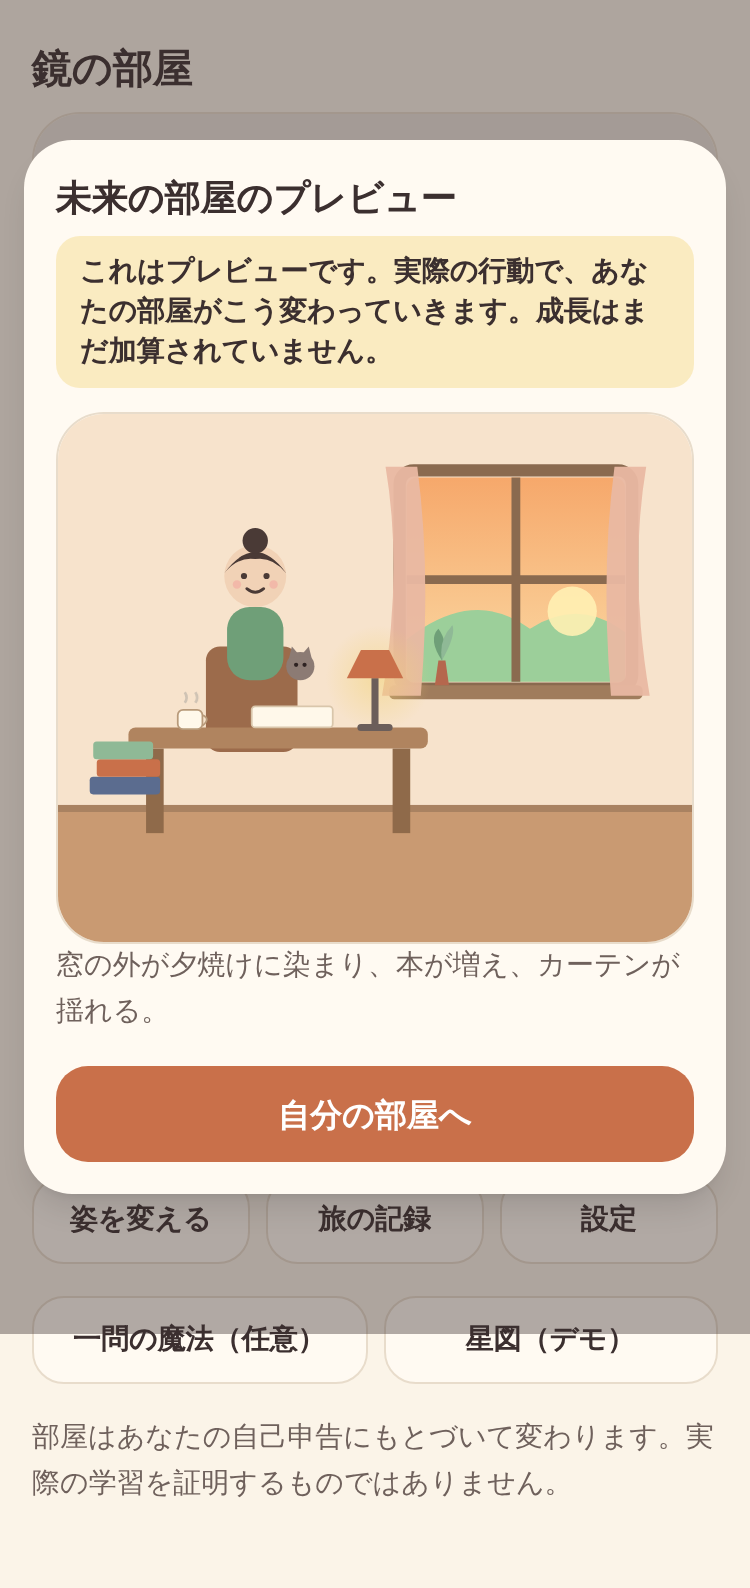
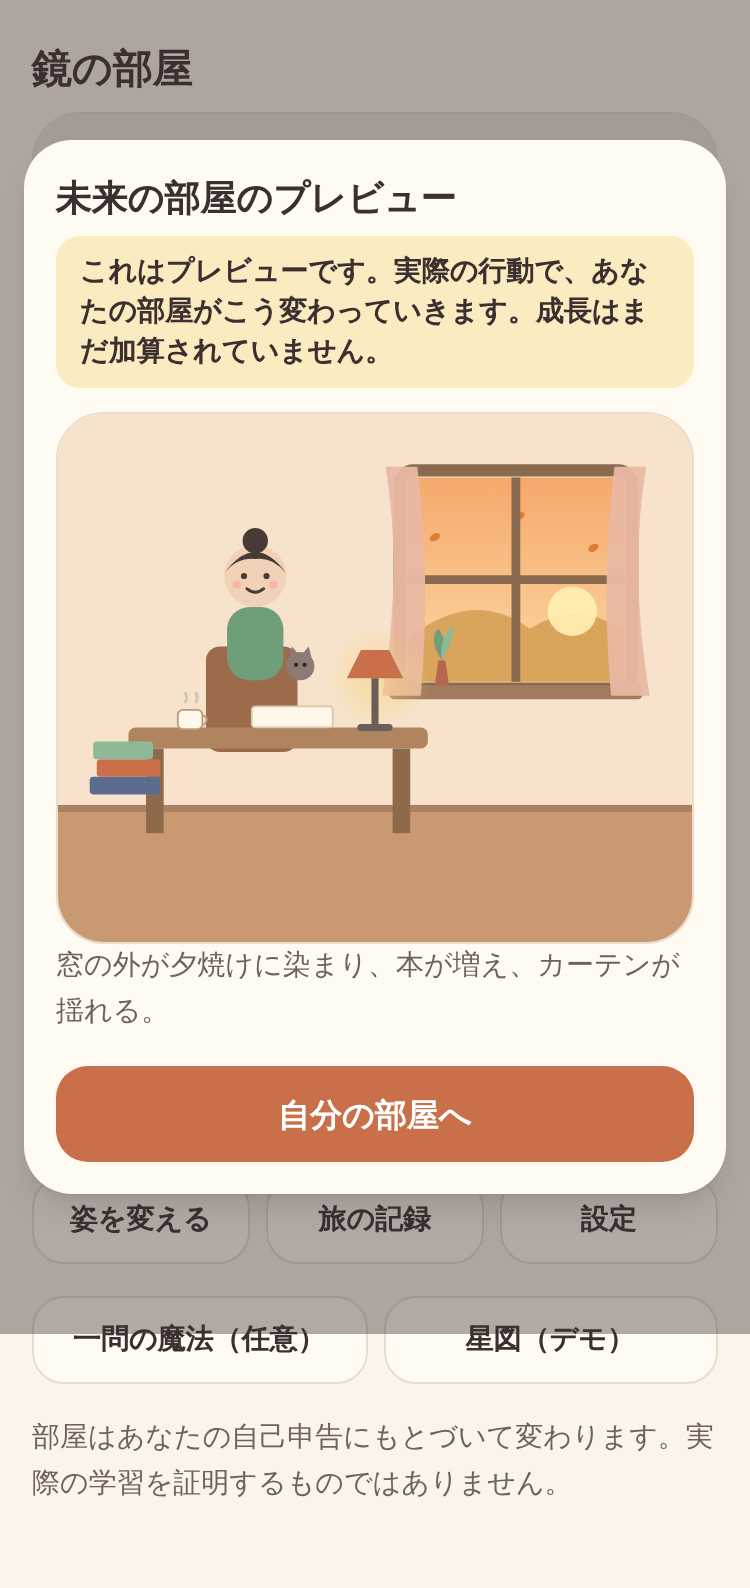
窓の外の四季、公開準備メモ（承認待ち）を追加
- 鏡の部屋: 端末の月で春夏秋冬の丘の色と小さな装飾（花びら・落ち葉・雪）を描き分け
- docs/06-release-prep.md: 静的配信の条件、公開前チェックリスト、判断が必要な点
- docs/01, 05, README を更新。テスト: Vitest 38 件 / E2E 12 件すべて成功

Claude-Session: https://claude.ai/code/session_01TEHZJDHAs9678v4oDnJQFv

Changed region(s): [[0.552, 0.3703, 0.828, 0.432]]

diff --git a/src/components/MirrorRoom.tsx b/src/components/MirrorRoom.tsx
@@ -2,6 +2,15 @@ import type { Ref } from "react";
 import type { AvatarConfig } from "@/game/types";
 import { AvatarFigure } from "@/components/Avatar";
 import { ROOM_STAGES } from "@/game/content/roomStages";
+import type { Season } from "@/game/logic/season";
+
+// 窓の外の丘の色（季節 × 昼夜）。段階 2 以上で見える。
+const HILL: Record<Season, [string, string]> = {
+  spring: ["#9ccf9a", "#2f4a3c"],
+  summer: ["#6fb57a", "#27402f"],
+  autumn: ["#d9a45b", "#4a3a2a"],
+  winter: ["#e9eef2", "#5a6470"],
+};
 
 // 鏡の部屋。段階（stage）と部屋に現れた物（objects）で描き分ける。時間では変わらない。
 const WALL = ["#e9e3da", "#f4e8d6", "#f6ead7", "#f7e3cc", "#e2d6c8", "#ddd0c4"];
@@ -33,9 +42,10 @@ export interface MirrorRoomProps {
   className?: string;
   svgRef?: Ref<SVGSVGElement>;
   idPrefix?: string;
+  season?: Season;
 }
 
-export function MirrorRoom({ stage, objects, avatar, label, className = "", svgRef, idPrefix = "room" }: MirrorRoomProps) {
+export function MirrorRoom({ stage, objects, avatar, label, className = "", svgRef, idPrefix = "room", season = "spring" }: MirrorRoomProps) {
   const s = Math.max(0, Math.min(WALL.length - 1, stage));
   const has = (id: string) => objects.includes(id);
   const night = s >= 4;
@@ -82,7 +92,28 @@ export function MirrorRoom({ stage, objects, avatar, label, className = "", svgR
 
       {/* 窓 */}
       <rect x="198" y="36" width="124" height="116" rx="6" fill={`url(#${skyId})`} />
-      {s >= 2 ? <path d="M198 128 Q236 98 268 122 Q296 104 322 124 L322 152 L198 152 Z" fill={night ? "#2f4a3c" : "#9ccf9a"} /> : null}
+      {s >= 2 ? <path d="M198 128 Q236 98 268 122 Q296 104 322 124 L322 152 L198 152 Z" fill={HILL[season][night ? 1 : 0]} /> : null}
+      {s >= 2 && season === "spring" ? (
+        <g>
+          {[[210, 60], [250, 52], [300, 66], [236, 84]].map(([x, y]) => (
+            <circle key={`p${x}`} cx={x} cy={y} r="2.5" fill="#f7c5d0" opacity="0.9" />
+          ))}
+        </g>
+      ) : null}
+      {s >= 2 && season === "autumn" ? (
+        <g>
+          {[[214, 70], [262, 58], [304, 76]].map(([x, y]) => (
+            <ellipse key={`l${x}`} cx={x} cy={y} rx="3.2" ry="2" fill="#d9772f" opacity="0.9" transform={`rotate(-30 ${x} ${y})`} />
+          ))}
+        </g>
+      ) : null}
+      {s >= 2 && season === "winter" ? (
+        <g>
+          {[[208, 50], [230, 72], [256, 46], [282, 66], [306, 50], [316, 86]].map(([x, y]) => (
+            <circle key={`w${x}`} cx={x} cy={y} r="1.8" fill="#ffffff" opacity="0.9" />
+          ))}
+        </g>
+      ) : null}
       {s === 3 ? <circle cx="292" cy="112" r="14" fill="#fff0b3" opacity="0.9" /> : null}
       {night
         ? STAR_POSITIONS.slice(0, has("star") ? STAR_POSITIONS.length : 3).map(([x, y], i) => (

diff --git a/src/app/room/page.tsx b/src/app/room/page.tsx
@@ -8,6 +8,7 @@ import { Card, LinkButton, Loading, Note, PageShell } from "@/components/ui";
 import { ROOM_STAGES } from "@/game/content/roomStages";
 import { STORY_CHAPTERS } from "@/game/content/story";
 import { dayKeyOf } from "@/game/logic/time";
+import { seasonOf } from "@/game/logic/season";
 
 export default function RoomPage() {
   const ok = useRouteGuard({ active: "redirect" });
@@ -17,6 +18,7 @@ export default function RoomPage() {
   const { world, player } = state;
   const stage = ROOM_STAGES[world.roomStage];
   const todayKey = dayKeyOf(clock.now());
+  const season = seasonOf(clock.now());
   const returnsToday = state.sessions.filter(
     (s) => s.returnedAt && s.selfReport !== "skip" && dayKeyOf(new Date(s.returnedAt)) === todayKey,
   ).length;
@@ -26,9 +28,9 @@ export default function RoomPage() {
 
   return (
     <PageShell title={`${who}鏡の部屋`}>
-      {!state.previewSeen ? <PreviewOverlay avatar={player.avatar} onClose={markPreviewSeen} /> : null}
+      {!state.previewSeen ? <PreviewOverlay avatar={player.avatar} season={season} onClose={markPreviewSeen} /> : null}
       <div data-testid="room" data-growth={world.growth} data-stage={world.roomStage}>
-        <MirrorRoom stage={world.roomStage} objects={world.unlockedObjects} avatar={player.avatar} />
+        <MirrorRoom stage={world.roomStage} objects={world.unlockedObjects} avatar={player.avatar} season={season} />
       </div>
       <Card>
         <p className="text-lg font-bold" data-testid="room-stage">

diff --git a/src/app/change/page.tsx b/src/app/change/page.tsx
@@ -9,6 +9,7 @@ import { objectName, ROOM_STAGES } from "@/game/content/roomStages";
 import { CAPPED_NOTE, STORY_IS_DRAFT } from "@/game/content/story";
 import { REPORT_LABEL } from "@/game/content/labels";
 import { dayKeyOf } from "@/game/logic/time";
+import { seasonOf } from "@/game/logic/season";
 
 const subscribeNoop = () => () => {};
 
@@ -51,6 +52,7 @@ export default function ChangePage() {
   if (!ok || !state.player || !state.lastChange) return <Loading />;
   const change = state.lastChange;
   const world = state.world;
+  const season = seasonOf(clock.now());
   const beforeObjects = world.unlockedObjects.filter((id) => !change.newObjects.includes(id));
 
   const renderImage = async (): Promise<Blob> => {
@@ -121,6 +123,7 @@ export default function ChangePage() {
             objects={beforeObjects}
             avatar={state.player.avatar}
             idPrefix="before"
+            season={season}
             label={`前: ${ROOM_STAGES[change.beforeStage].name}`}
           />
         </figure>
@@ -132,6 +135,7 @@ export default function ChangePage() {
             objects={world.unlockedObjects}
             avatar={state.player.avatar}
             idPrefix="after"
+            season={season}
             label={`後: ${ROOM_STAGES[change.afterStage].name}`}
           />
         </figure>

diff --git a/src/components/PreviewOverlay.tsx b/src/components/PreviewOverlay.tsx
@@ -5,11 +5,12 @@ import type { AvatarConfig } from "@/game/types";
 import { MirrorRoom } from "@/components/MirrorRoom";
 import { Button, Note } from "@/components/ui";
 import { objectsForGrowth, ROOM_STAGES, STAGE_THRESHOLDS } from "@/game/content/roomStages";
+import type { Season } from "@/game/logic/season";
 
 const PREVIEW_STAGE = 3;
 
 // 初回 3 分以内に「未来の部屋」を見せる。プレビューであることを明示し、成長点は付与しない。
-export function PreviewOverlay({ avatar, onClose }: { avatar: AvatarConfig; onClose: () => void }) {
+export function PreviewOverlay({ avatar, season, onClose }: { avatar: AvatarConfig; season: Season; onClose: () => void }) {
   const headingRef = useRef<HTMLHeadingElement>(null);
   useEffect(() => {
     headingRef.current?.focus();
@@ -37,6 +38,7 @@ export function PreviewOverlay({ avatar, onClose }: { avatar: AvatarConfig; onCl
             objects={objectsForGrowth(growth)}
             avatar={avatar}
             idPrefix="preview"
+            season={season}
             label={`プレビュー: ${ROOM_STAGES[PREVIEW_STAGE].name}`}
           />
         </div>

diff --git a/src/game/logic/season.ts b/src/game/logic/season.ts
@@ -1,0 +1,12 @@
+export type Season = "spring" | "summer" | "autumn" | "winter";
+
+/** 端末ローカルの月から季節を決める（3〜5 月: 春、6〜8 月: 夏、9〜11 月: 秋、12〜2 月: 冬）。 */
+export function seasonOf(date: Date): Season {
+  const m = date.getMonth() + 1;
+  if (m >= 3 && m <= 5) return "spring";
+  if (m >= 6 && m <= 8) return "summer";
+  if (m >= 9 && m <= 11) return "autumn";
+  return "winter";
+}
+
+export const SEASON_LABEL: Record<Season, string> = { spring: "春", summer: "夏", autumn: "秋", winter: "冬" };

diff --git a/src/game/logic/season.test.ts b/src/game/logic/season.test.ts
@@ -1,0 +1,13 @@
+import { describe, expect, it } from "vitest";
+import { seasonOf } from "@/game/logic/season";
+
+describe("seasonOf", () => {
+  it("月で季節が決まる", () => {
+    expect(seasonOf(new Date(2026, 2, 1))).toBe("spring");
+    expect(seasonOf(new Date(2026, 4, 31))).toBe("spring");
+    expect(seasonOf(new Date(2026, 5, 1))).toBe("summer");
+    expect(seasonOf(new Date(2026, 9, 29))).toBe("autumn");
+    expect(seasonOf(new Date(2026, 11, 1))).toBe("winter");
+    expect(seasonOf(new Date(2026, 1, 28))).toBe("winter");
+  });
+});

diff --git a/docs/06-release-prep.md b/docs/06-release-prep.md
@@ -1,0 +1,36 @@
+# 公開準備メモ（承認待ち。公開作業は行っていない）
+
+外部公開は設計書 0 章・15 章により承認が必要。本書は、承認後に必要となる作業の整理であり、ホスティングの契約・デプロイ・ストア申請は一切行っていない。
+
+## 1. 配布形態
+
+- `npm run build` が生成する `out/` は静的ファイルのみ。HTTPS で配信できる静的ホスティングならどこでも動く。
+- 条件: サイトのルート（`/`）に置くこと。Service Worker（`/sw.js`）と manifest（`start_url: "/"`）がルート前提のため、サブパス配信には `basePath` の追加変更が必要。
+- サーバー側の処理・データベース・環境変数は不要。API キーも存在しない。
+
+## 2. 公開前チェックリスト（設計書 12 章）
+
+| 項目 | 状態 |
+| --- | --- |
+| 個人情報保護法・未成年者保護の確認（専門家） | 未実施 |
+| 著作権（物語・問題・絵はすべて本リポジトリで作成。既存作品の模倣なし） | 自己確認のみ |
+| 広告表示（広告なし） | 該当なし |
+| ストア審査基準（PWA としての公開なら不要。ストア配信するなら要確認） | 未実施 |
+| 物語 7 日分の監修 | 未実施 |
+| 学習問題 30 問の監修（監修前は「デモ」表示のまま） | 未実施 |
+| 実機検証（iOS Safari / Android Chrome） | 未実施 |
+| 読み上げソフト検証 | 未実施 |
+| 10 人ユーザーテスト（設計書 11 章の仮基準: 8 人以上が説明なしで初回体験完了、7 人以上が「もう一度見たい」、重大な安全・プライバシー不具合ゼロ） | 未実施 |
+
+## 3. 公開後に初めて必要になるもの（この版には含めない）
+
+- 利用規約・プライバシーポリシーの掲載（端末内保存のみでも、保護者向けに明記が望ましい）
+- 問い合わせ窓口
+- 北極星指標の計測: 現状は計測しない。計測する場合は opt-in の匿名集計を設計し、プライバシー審査を通す
+- Service Worker の `CACHE_VERSION` を更新ごとに上げる運用
+
+## 4. 判断が必要な点
+
+1. 配信先（候補: 静的ホスティング各社、または自社ドメイン直下）
+2. ドメイン名と、保護者向け説明ページの公開有無
+3. 学習問題の監修者と、監修後に `reviewed: true` へ更新する手順の担当

diff --git a/docs/01-implementation-plan.md b/docs/01-implementation-plan.md
@@ -12,7 +12,8 @@
 | 3 | 7 日分の物語（草案）、学習問題 30 問、振り返り、旅の記録 | 実装済み。物語と問題はいずれも草案・デモ（監修前）と画面に明示。振り返りは帰還時の「ひとこと」と記録画面の「この 7 日の振り返り」 |
 | 4 | オフライン、設定、データ削除、アクセシビリティ、テスト | 基本実装済み。実機検証は未実施 |
 | 5 | デモ操作シナリオ、スクリーンショット、テスト報告 | 操作シナリオと自動スクリーンショットは `docs/05` に記載。外部公開は承認待ち |
-| 任意 | 共創の星図（デモ）、音（実験） | 星図は架空データのみ。音は端末内合成・初期 OFF。AI 会話・SNS 共有・広告は未実装 |
+| 任意 | 共創の星図（デモ）、音（実験）、画像の共有 | 星図は架空データのみ。音は端末内合成・初期 OFF。共有は Web Share 対応端末で本人操作のみ。AI 会話・学校推薦・広告は未実装 |
+| 5 章 | 四季で変わる窓の外 | 端末の月で春夏秋冬を描き分け（段階 2 以上で見える） |
 
 Phase 3〜4 のうち、縦切りに必須な部分（物語テキスト、記録、設定、削除、オフライン）は前倒しで実装した。これは設計書 3 章「必須」に含まれる項目であり、仕様の拡大ではない。
 
@@ -57,4 +58,4 @@ docs/               計画・設計・テスト報告
 2. R2 AI 提案: バックエンド導入までルールベースで進めてよいか
 3. R3 学習問題: 同梱した AI 下書き 30 問の監修者、または監修済みデータの提供元（形式は `src/game/content/questions.ts` と同じ）
 4. R4 物語草案: 監修者の指名
-5. 外部公開（ホスティング先、ドメイン、ストア申請）の可否
+5. 外部公開（ホスティング先、ドメイン、ストア申請）の可否。準備メモは `docs/06-release-prep.md`

diff --git a/docs/05-test-report.md b/docs/05-test-report.md
@@ -9,7 +9,7 @@
 | --- | --- | --- |
 | 型検査 | `npm run typecheck` | 成功（エラー 0） |
 | Lint | `npm run lint` | 成功（エラー 0、警告 0） |
-| 単体テスト（Vitest） | `npm run test` | 8 ファイル / 37 件すべて成功 |
+| 単体テスト（Vitest） | `npm run test` | 9 ファイル / 38 件すべて成功 |
 | E2E（Playwright, 375×667, Chromium） | `npm run test:e2e` | 12 件すべて成功（本番ビルド `out/` を対象） |
 
 件数の内訳（数え方: 単体は `it()` の数、E2E は `test()` の数）:
@@ -24,6 +24,7 @@
 | `src/game/store/reducer.test.ts` | 5 | プレイヤー作成、出発→帰還、二重出発の防止、設定、リセット |
 | `src/game/content/questions.test.ts` | 4 | 30 問・数学中心・ID 重複なし、4 択と正答番号、監修前データの隔離、言語化選択肢の文言 |
 | `src/game/logic/quiz.test.ts` | 3 | 未回答優先、巡回、空データ |
+| `src/game/logic/season.test.ts` | 1 | 月から季節を決める（窓の外の四季） |
 
 ## 2. 必須受入テスト（設計書 14 章）との対応
 

diff --git a/README.md b/README.md
@@ -33,7 +33,8 @@ npm run icons        # public/icons/icon.svg から PNG アイコンを再生成
 | `docs/02-screen-flow.md` | 画面遷移とガード |
 | `docs/03-data-model.md` | データ構造と永続化の抽象化 |
 | `docs/04-test-plan.md` | テスト計画（自動 / 手動） |
-| `docs/05-test-report.md` | テスト結果とデモ操作シナリオ |
+| `docs/05-test-report.md` | テスト結果、セキュリティ確認、デモ操作シナリオ |
+| `docs/06-release-prep.md` | 公開準備メモ（承認待ち。公開作業は未実施） |
 
 ## 設計上の約束（実装で担保しているもの）
 
